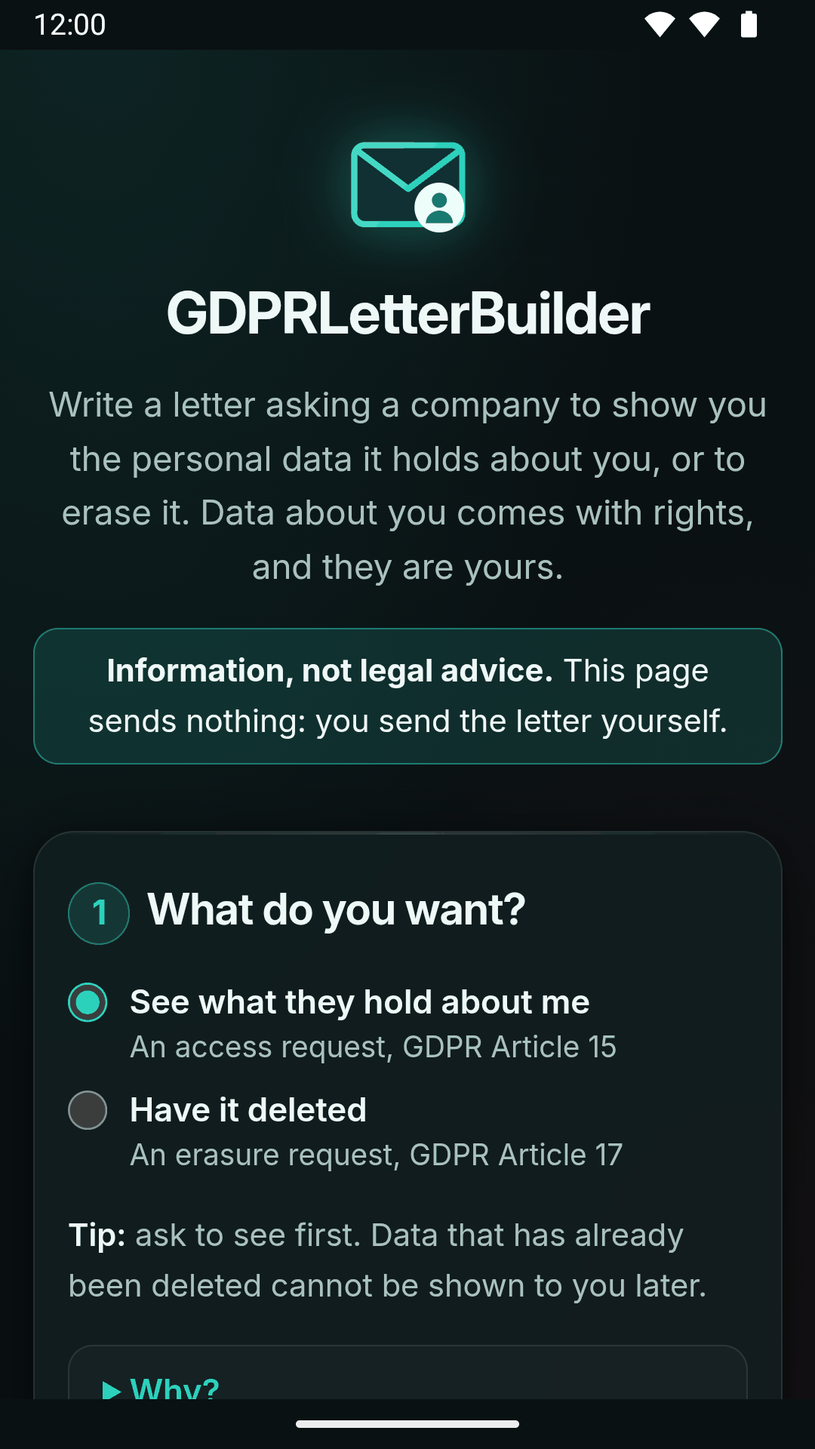
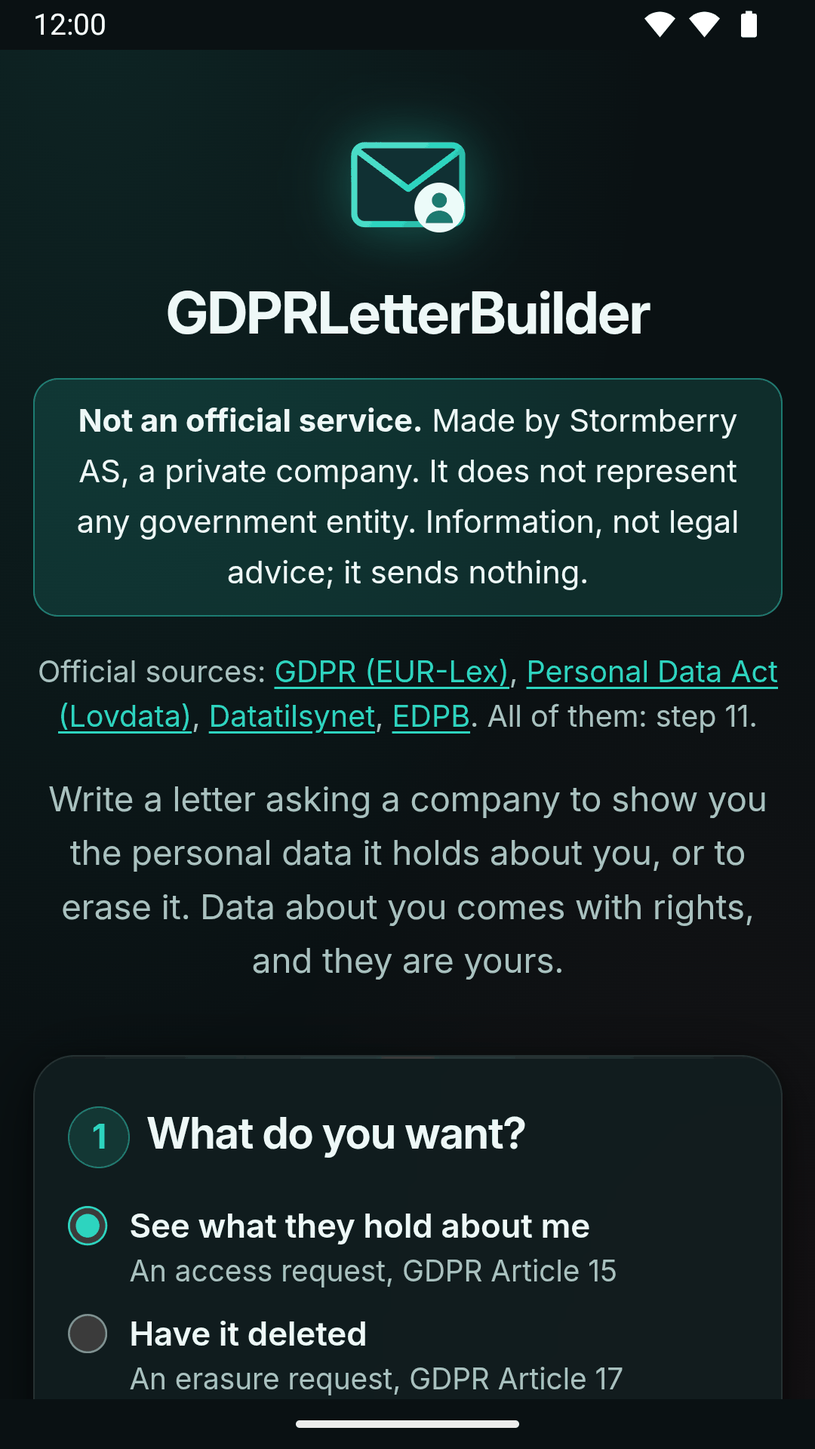
GDPRLetterBuilder 0.0.3: not an official service, with the official sources on the main screen
The main screen and the store texts now say at once that this is not an
official service, and link the official sources. Google Play asked for
both in its review of 1001 (Misleading Claims policy, 2 November 2026).

- Under the title, a box: "Not an official service. Made by Stormberry
  AS, a private company. It does not represent any government entity.
  Information, not legal advice; it sends nothing." It replaces the
  shorter note under the introduction.
- Under the box, a row links four official sources: the GDPR on
  EUR-Lex, the Personal Data Act in English on Lovdata, Datatilsynet and
  the EDPB guidelines on the right of access (.hero-sources in
  style.css). The introduction follows them. Box and row end above the
  fold at 320 x 568, 360 x 640 and 360 x 640 at 130 % text.
- Step 11 adds the three links it did not have and ends with the same
  statement: a private company that does not represent any government
  entity or public authority.
- The sovereign store texts (fastlane and zapstore.yaml) are the Google
  Play 1003 texts, byte for byte: they start with the same statement and
  list the official sources. New short description:
  "Unofficial helper: write a GDPR access or erasure letter. Sends
  nothing." Store screenshot 01 shows the new top of the screen.
- changelogs/3.txt is the release note (also the Play 1003 note);
  CHANGELOG.md and the README say what changed.
- versionName 0.0.3, versionCode 3. The Google Play edition is 1003.
[…]

diff --git a/index.html b/index.html
@@ -50,7 +50,7 @@
 
   <!-- Local Fonts: Inter -->
   <link rel="stylesheet" href="fonts/inter/inter.css?v=868d674e" />
-  <link rel="stylesheet" href="style.css?v=09618252" />
+  <link rel="stylesheet" href="style.css?v=c27f956e" />
   <!-- The first-run notice (dismissible tier): gate.css is generated by build-gates.py at the
        root of the GitHub folder; gate.js is compiled from the TypeScript that build-gates.py
        writes. Do not edit them here. Closing it
@@ -67,8 +67,9 @@
     <section class="hero" aria-labelledby="app-title">
       <img src="favicon.svg" alt="" class="hero-icon" width="64" height="64" />
       <h1 class="hero-title" id="app-title"><span aria-hidden="true">GDPR<wbr>Letter<wbr>Builder</span><span class="visually-hidden">GDPR Letter Builder</span></h1>
+      <p class="hero-note"><strong>Not an official service.</strong> Made by Stormberry AS, a private company. It does not represent any government entity. Information, not legal advice; it sends nothing.</p>
+      <p class="hero-sources">Official sources: <a href="https://eur-lex.europa.eu/legal-content/EN/TXT/?uri=CELEX:32016R0679" target="_blank" rel="noopener noreferrer">GDPR (EUR-Lex)</a>, <a href="https://lovdata.no/dokument/NLE/lov/2018-06-15-38" target="_blank" rel="noopener noreferrer">Personal Data Act (Lovdata)</a>, <a href="https://www.datatilsynet.no/en/" target="_blank" rel="noopener noreferrer">Datatilsynet</a>, <a href="https://www.edpb.europa.eu/our-work-tools/our-documents/guidelines/guidelines-012022-data-subject-rights-right-access_en" target="_blank" rel="noopener noreferrer">EDPB</a>. All of them: step 11.</p>
       <p class="hero-lede">Write a letter asking a company to show you the personal data it holds about you, or to erase it. Data about you comes with rights, and they are yours.</p>
-      <p class="hero-note"><strong>Information, not legal advice.</strong> This page sends nothing: you send the letter yourself.</p>
     </section>
 
     <!-- Step 1 -->
@@ -649,16 +650,16 @@
       <p>The letters and the notes on this page were checked against these sources on <strong>12 October 2026</strong>. Law and guidance change, and this page is not kept in step with them. For anything important, check the current position with Datatilsynet or a lawyer.</p>
       <ul class="source-list">
         <li><a href="https://eur-lex.europa.eu/legal-content/EN/TXT/?uri=CELEX:32016R0679" target="_blank" rel="noopener noreferrer">Regulation (EU) 2016/679, the General Data Protection Regulation (GDPR), on EUR-Lex</a></li>
-        <li><a href="https://lovdata.no/dokument/NL/lov/2018-06-15-38" target="_blank" rel="noopener noreferrer">The GDPR in Norwegian (personvernforordningen) and the Norwegian Personal Data Act (personopplysningsloven), on Lovdata</a></li>
-        <li><a href="https://www.edpb.europa.eu/system/files/documents/2023-04/edpb_guidelines_202201_data_subject_rights_access_v2_en.pdf" target="_blank" rel="noopener noreferrer">EDPB Guidelines 01/2022 on the right of access, version 2.1</a></li>
+        <li><a href="https://lovdata.no/dokument/NL/lov/2018-06-15-38" target="_blank" rel="noopener noreferrer">The GDPR in Norwegian (personvernforordningen) and the Norwegian Personal Data Act (personopplysningsloven), on Lovdata</a>, and <a href="https://lovdata.no/dokument/NLE/lov/2018-06-15-38" target="_blank" rel="noopener noreferrer">the Personal Data Act in English</a> (Lovdata's translation; the Norwegian text is the law)</li>
+        <li><a href="https://www.edpb.europa.eu/system/files/documents/2023-04/edpb_guidelines_202201_data_subject_rights_access_v2_en.pdf" target="_blank" rel="noopener noreferrer">EDPB Guidelines 01/2022 on the right of access, version 2.1</a>, and <a href="https://www.edpb.europa.eu/our-work-tools/our-documents/guidelines/guidelines-012022-data-subject-rights-right-access_en" target="_blank" rel="noopener noreferrer">their page on the EDPB's website</a></li>
         <li><a href="https://www.edpb.europa.eu/system/files/2026-02/edpb_cef-report_2025_right-to-erasure_en.pdf" target="_blank" rel="noopener noreferrer">EDPB coordinated enforcement report 2025 on the right to erasure</a></li>
         <li>Court of Justice of the European Union: <a href="https://curia.europa.eu/juris/liste.jsf?num=C-154/21" target="_blank" rel="noopener noreferrer">C-154/21</a>, <a href="https://curia.europa.eu/juris/liste.jsf?num=C-487/21" target="_blank" rel="noopener noreferrer">C-487/21</a>, <a href="https://curia.europa.eu/juris/liste.jsf?num=C-579/21" target="_blank" rel="noopener noreferrer">C-579/21</a>, <a href="https://curia.europa.eu/juris/liste.jsf?num=C-307/22" target="_blank" rel="noopener noreferrer">C-307/22</a>, <a href="https://curia.europa.eu/juris/liste.jsf?num=C-300/21" target="_blank" rel="noopener noreferrer">C-300/21</a>, <a href="https://curia.europa.eu/juris/liste.jsf?num=C-203/22" target="_blank" rel="noopener noreferrer">C-203/22</a>, <a href="https://curia.europa.eu/juris/liste.jsf?num=C-526/24" target="_blank" rel="noopener noreferrer">C-526/24</a></li>
         <li><a href="https://eur-lex.europa.eu/legal-content/EN/TXT/?uri=CELEX:31971R1182" target="_blank" rel="noopener noreferrer">Regulation (EEC, Euratom) No 1182/71 on periods, dates and time limits</a>, applied to the deadline by the EDPB</li>
         <li><a href="https://lovdata.no/dokument/NL/lov/1995-02-24-12" target="_blank" rel="noopener noreferrer">The Public Holidays Act (helligdagsloven)</a> and <a href="https://lovdata.no/dokument/NL/lov/1947-04-26-1" target="_blank" rel="noopener noreferrer">the Act on 1 and 17 May as public holidays (lov om 1 og 17 mai som høgtidsdager)</a></li>
-        <li>Datatilsynet: <a href="https://www.datatilsynet.no/rettigheter-og-plikter/den-registrertes-rettigheter/rett-til-innsyn/" target="_blank" rel="noopener noreferrer">right of access</a>, <a href="https://www.datatilsynet.no/rettigheter-og-plikter/den-registrertes-rettigheter/rett-til-sletting/" target="_blank" rel="noopener noreferrer">right to erasure</a>, <a href="https://www.datatilsynet.no/om-datatilsynet/kontakt-oss/klage-til-datatilsynet/" target="_blank" rel="noopener noreferrer">complaints</a>, <a href="https://www.datatilsynet.no/om-datatilsynet/kontakt-oss/" target="_blank" rel="noopener noreferrer">contact</a></li>
+        <li>Datatilsynet: <a href="https://www.datatilsynet.no/en/" target="_blank" rel="noopener noreferrer">its website in English</a>, and in Norwegian: <a href="https://www.datatilsynet.no/rettigheter-og-plikter/den-registrertes-rettigheter/rett-til-innsyn/" target="_blank" rel="noopener noreferrer">right of access</a>, <a href="https://www.datatilsynet.no/rettigheter-og-plikter/den-registrertes-rettigheter/rett-til-sletting/" target="_blank" rel="noopener noreferrer">right to erasure</a>, <a href="https://www.datatilsynet.no/om-datatilsynet/kontakt-oss/klage-til-datatilsynet/" target="_blank" rel="noopener noreferrer">complaints</a>, <a href="https://www.datatilsynet.no/om-datatilsynet/kontakt-oss/" target="_blank" rel="noopener noreferrer">contact</a></li>
         <li><a href="https://personvernnemnda.no/klage-saksgang/" target="_blank" rel="noopener noreferrer">Personvernnemnda</a> and <a href="https://www.posten.no/sende/i-norge/brev/rekommandert-brev" target="_blank" rel="noopener noreferrer">Posten</a></li>
       </ul>
-      <p class="hint">Stormberry AS is not connected with Datatilsynet, the EDPB or the EU, and they have not reviewed this page. The letters are our own wording and use the words of the law where precision matters; quotations elsewhere on this page are marked.</p>
+      <p class="hint">Stormberry AS is a private company and does not represent any government entity or public authority. It is not connected with Datatilsynet, the EDPB or the European Union, and none of them has reviewed or approved this page. The letters are our own wording and use the words of the law where precision matters; quotations elsewhere on this page are marked.</p>
     </section>
 
     <div class="visually-hidden" id="announcer" role="status" aria-live="polite"></div>

diff --git a/tests/store.test.ts b/tests/store.test.ts
@@ -94,10 +94,39 @@ test('the store texts: Zapstore\'s and Fastlane\'s lengths, the copy rules, and 
     assert.deepEqual(copyProblems(t), [], name);
     assert.ok(!/\bvibe/i.test(t), name);
   }
-  // The framing every Labs app carries, and the app's own.
-  assert.match(full, /This is a functioning prototype from Stormberry AS, MIT licensed/);
-  assert.match(full, /Information, not legal advice\./);
+  // The framing every Labs app carries, and the app's own. Since 0.0.3 the last two lines are the Play
+  // edition's, word for word: the licence is named with the code's address, not in the prototype line.
+  assert.match(full, /\n\nThe privacy page and the full disclaimer open from the app's footer\. The code is open source \(MIT\): https:\/\/github\.com\/StormberryAS\/GDPRLetterBuilder\n\nThis is a functioning prototype from Stormberry AS, so expect gaps and changes\.\n$/);
+  assert.match(full, /It gives information, not legal advice\./);
   assert.match(note, /Information, not legal advice\./);
+});
+
+// Google Play's Misleading Claims review of 1001 (2 November 2026): the description must say near the top
+// that the app is not official and does not represent a government entity, and link the official sources.
+// Marcos approved the texts on 4 November 2026 (~/work/gdpr-play-policy-20261104/DESIGN.md).
+const NOT_OFFICIAL = 'Not an official service. GDPRLetterBuilder is a free app made by Stormberry AS, a private company in Norway. It does not represent any government entity or public authority. It is not connected with the Norwegian Data Protection Authority (Datatilsynet), the European Data Protection Board (EDPB) or the European Union, and none of them has reviewed or approved it. It gives information, not legal advice.';
+const OFFICIAL_SOURCES = [
+  'https://eur-lex.europa.eu/legal-content/EN/TXT/?uri=CELEX:32016R0679',
+  'https://lovdata.no/dokument/NLE/lov/2018-06-15-38',
+  'https://www.datatilsynet.no/en/',
+  'https://www.datatilsynet.no/om-datatilsynet/kontakt-oss/klage-til-datatilsynet/',
+  'https://www.edpb.europa.eu/our-work-tools/our-documents/guidelines/guidelines-012022-data-subject-rights-right-access_en',
+];
+
+test('the store texts say first that the app is not official, and link the official sources, each one also in step 11 (0.0.3)', () => {
+  const full = text(`${FL}/full_description.txt`);
+  assert.ok(full.startsWith(NOT_OFFICIAL + '\n\n'), 'the first paragraph');
+  assert.equal(text(`${FL}/short_description.txt`), 'Unofficial helper: write a GDPR access or erasure letter. Sends nothing.');
+  const block = full.match(/\n\nOfficial sources\. The letters and notes rely on these\. For the authoritative text, read them there:\n((?:- [^\n]+: https:\/\/\S+\n){5})The app lists every source it uses, with the date we checked it, in its last step\.\n\n/);
+  assert.ok(block, 'the Official sources block');
+  assert.deepEqual([...block[1]!.matchAll(/: (https:\/\/\S+)\n/g)].map((m) => m[1]), OFFICIAL_SOURCES);
+  // Every link of the store text is a link of step 11, which lists them all, and opens safely there.
+  const html = read('index.html');
+  const s11 = html.slice(html.indexOf('<!-- Step 11 -->'), html.indexOf('<div class="visually-hidden" id="announcer"'));
+  for (const u of OFFICIAL_SOURCES) assert.ok(s11.includes(`<a href="${u}" target="_blank" rel="noopener noreferrer">`), u);
+  // The list item it replaced is gone; the deadline item uses the short name the first paragraph defines.
+  assert.ok(!full.includes('Every source the letters rely on'));
+  assert.ok(full.includes('counted the way the EDPB describes'));
 });
 
 test('the texts are approved (30 October 2026): no DRAFT line anywhere, and the release workflow still refuses to build with one', () => {
@@ -113,7 +142,7 @@ test('the texts are approved (30 October 2026): no DRAFT line anywhere, and the 
 
 test('the store texts claim no permission only while the APK asks for none', () => {
   const full = text(`${FL}/full_description.txt`);
-  const claims = /asks for no Android permission at all/.test(full) && /The only line you should see is the package name\./.test(full);
+  const claims = /asks for no Android permission at all/.test(full) && /Android's App info for GDPRLetterBuilder lists none\./.test(full);
   assert.ok(claims);
   assert.equal(read('android/expected-permissions.txt').trim(), 'package: no.stormberry.gdprletterbuilder');
   const manifest = read('android/app/src/main/AndroidManifest.xml').replace(/<!--[\s\S]*?-->/g, '');
@@ -231,11 +260,11 @@ test('the Play switch: -PplayBuild=true builds no.stormberry.gdprletterbuilder.p
   assert.ok(versionCode() < 1000, 'the sovereign versionCode stays below the Play offset');
   assert.match(gradle, /^val PLAY_VERSION_CODE_OFFSET = 1000$/m);
   assert.match(gradle, /applicationId = if \(playBuild\) "no\.stormberry\.gdprletterbuilder\.play" else "no\.stormberry\.gdprletterbuilder"/);
-  assert.match(gradle, /versionCode = 2\n {8}versionName = "0\.0\.2"\n {8}if \(playBuild\) \{\n {12}versionCode = PLAY_VERSION_CODE_OFFSET \+ versionCode!!\n {8}\}/);
+  assert.match(gradle, /versionCode = 3\n {8}versionName = "0\.0\.3"\n {8}if \(playBuild\) \{\n {12}versionCode = PLAY_VERSION_CODE_OFFSET \+ versionCode!!\n {8}\}/);
   // Strict parsing: a bare -PplayBuild means Play, anything unknown stops the build.
   assert.match(gradle, /"", "true", "1", "yes" -> true\n\s*"false", "0", "no" -> false\n\s*else -> error\(/);
   assert.match(gradle, /if \(playBuild\) \{\n {4}base \{ archivesName = "gdprletterbuilder-play" \}\n\}/);
-  assert.match(read('README.md'), /\| `android-v0\.0\.1` \| 1 \| 0\.0\.1 \| 1001 \|\n\| `android-v0\.0\.2` \| 2 \| 0\.0\.2 \| 1002 \|\n/);
+  assert.match(read('README.md'), /\| `android-v0\.0\.1` \| 1 \| 0\.0\.1 \| 1001 \|\n\| `android-v0\.0\.2` \| 2 \| 0\.0\.2 \| 1002 \|\n\| `android-v0\.0\.3` \| 3 \| 0\.0\.3 \| 1003 \|\n/);
   // The Play edition has the same features: nothing in the app's code or manifest depends on the switch.
   for (const f of walkFiles('android/app/src/main')) assert.ok(!/playBuild|\.play\b/.test(read(f)), `${f} depends on the Play switch`);
 });

diff --git a/tests/ui-smoke.ts b/tests/ui-smoke.ts
@@ -9,6 +9,9 @@
 // checks (spec sections 11 and 13):
 //   * the first-run notice at 1280, 390 and 320 pixels and at 200% text, word for word, closed by
 //     Escape, the backdrop and its button, its one flag, and not shown again after a reload;
+//   * the top of the main screen (0.0.3, the Google Play policy fix): the "Not an official service"
+//     box and the official sources row end above the fold at 320 x 568, 360 x 640 and 360 x 640 at
+//     130% text, in dark and light, in the order title, box, sources, introduction;
 //   * one column with no sideways scrolling at 1280, 390 and 320 pixels and at 200% text;
 //   * at 320, 360 and 393 pixels, every inline choice label on one line and no radio or checkbox
 //     label broken inside a word;
@@ -123,7 +126,7 @@ function contrast(sels: string[]) {
     return { sel, ratio: Math.round(r * 100) / 100, color: cs.color, bg: 'rgb(' + [bg.r, bg.g, bg.b].map(Math.round).join(',') + ')', size: cs.fontSize };
   });
 }
-const CONTRAST_SELECTORS = ['.hero-lede', '.hero-note', '.step-title', '.hint', '.field > label', 'legend', '.choice-sub', '.choice span', '.btn-primary', '.btn-secondary', 'textarea.letter',
+const CONTRAST_SELECTORS = ['.hero-lede', '.hero-note', '.hero-sources', '.hero-sources a', '.step-title', '.hint', '.field > label', 'legend', '.choice-sub', '.choice span', '.btn-primary', '.btn-secondary', 'textarea.letter',
   'details > summary', '.sources', '.missing', '.deadline p', '.deadline-head', '.footer-bottom p', '.footer-offline', '.footer-privacy', '.footer-law', '.footer-ai', '.footer-tagline', '.switcher-title', '.tips li', 'input#company'];
 
 try {
@@ -163,6 +166,34 @@ try {
       await p.load();
       g = await p.run(gateState);
       check('notice: not shown again after a reload', !g.open, g.open);
+    }
+  }
+
+  // The top of the main screen (0.0.3): Google Play asked for an easy-to-see statement in the app that
+  // it does not represent a government entity, and for the official sources. Both end above the fold,
+  // with the first-run notice closed, on the smallest phone screens and at 130% text (Android's large
+  // font), in dark and light. At 200% text nothing can fit; the box still comes first there.
+  for (const [w, h, zoom] of [[320, 568, 1], [360, 640, 1], [360, 640, 1.3], [320, 640, 2]] as Array<[number, number, number]>) {
+    for (const scheme of ['dark', 'light']) {
+      const p = await open({ width: w, height: h });
+      await p.s('Emulation.setEmulatedMedia', { features: [{ name: 'prefers-color-scheme', value: scheme }] });
+      if (zoom !== 1) await p.run((z: number) => { document.documentElement.style.fontSize = (z * 100) + '%'; }, zoom);
+      await sleep(300);
+      const r = await p.run(() => {
+        scrollTo(0, 0);
+        const box = (s: string) => { const e = document.querySelector(s); if (!e || !e.getClientRects().length) return null; const b = e.getBoundingClientRect(); return { top: Math.round(b.top), bottom: Math.round(b.bottom) }; };
+        const shown = (s: string) => { const e = document.querySelector(s); if (!e) return false; const cs = getComputedStyle(e); return cs.visibility === 'visible' && cs.display !== 'none' && Number(cs.opacity) > 0.9; };
+        return { title: box('.hero-title'), note: box('.hero-note'), sources: box('.hero-sources'), lede: box('.hero-lede'), vh: innerHeight, scrollY, gate: !!document.querySelector('.sb-gate-overlay'),
+          shown: shown('.hero-note') && shown('.hero-sources'), noteText: document.querySelector('.hero-note')?.textContent, links: document.querySelectorAll('.hero-sources a[target="_blank"][rel="noopener noreferrer"]').length };
+      });
+      const tag = `top of the main screen ${w} x ${h}${zoom !== 1 ? ` at ${zoom * 100}% text` : ''}, ${scheme}`;
+      const ordered = !!(r.title && r.note && r.sources && r.lede) && r.title.bottom <= r.note.top && r.note.bottom <= r.sources.top && r.sources.bottom <= r.lede.top;
+      check(`${tag}: title, the "Not an official service" box, the four official sources, then the introduction`, ordered && r.shown && !r.gate && r.links === 4
+        && /^Not an official service\. Made by Stormberry AS, a private company\. It does not represent any government entity\./.test(r.noteText || ''), r);
+      if (zoom <= 1.3) check(`${tag}: the box and the sources row end above the fold, without a scroll`, r.scrollY === 0 && !!r.note && !!r.sources && r.note.bottom <= r.vh && r.sources.bottom <= r.vh, r);
+      else check(`${tag}: the box starts above the fold`, r.scrollY === 0 && !!r.note && r.note.top < r.vh, r);
+      await p.viewShot(join(SHOTS, `top-${w}x${h}${zoom !== 1 ? `-${zoom * 100}pct` : ''}-${scheme}.png`));
+      await p.close();
     }
   }
 

diff --git a/tests/static.test.ts b/tests/static.test.ts
@@ -228,7 +228,7 @@ const MANIFEST = [
   '.github/workflows/android-release.yml', 'android/tools/apk-without-signature.ts', 'android/tools/build-store-icon.py', 'tests/store.test.ts',
   'zapstore.yaml', 'fastlane/metadata/android/en-US/title.txt', 'fastlane/metadata/android/en-US/short_description.txt',
   'fastlane/metadata/android/en-US/full_description.txt', 'fastlane/metadata/android/en-US/changelogs/1.txt',
-  'fastlane/metadata/android/en-US/changelogs/2.txt',
+  'fastlane/metadata/android/en-US/changelogs/2.txt', 'fastlane/metadata/android/en-US/changelogs/3.txt',
   'fastlane/metadata/android/en-US/images/icon.png', 'fastlane/metadata/android/en-US/images/featureGraphic.png',
   'fastlane/metadata/android/en-US/images/phoneScreenshots/01-start.png', 'fastlane/metadata/android/en-US/images/phoneScreenshots/02-your-letter.png',
   'fastlane/metadata/android/en-US/images/phoneScreenshots/03-deadline.png', 'fastlane/metadata/android/en-US/images/phoneScreenshots/04-follow-up.png',
@@ -266,6 +266,39 @@ test('touch targets and the title at large text (stage 3 review E3-8, E3-9)', ()
   assert.match(css, /\.choices\.inline \.choice > span \{ flex: 1 1 0; max-width: none; \}/);
   // The title breaks between its three words, never inside one while they fit.
   assert.match(read('index.html'), /<h1 class="hero-title" id="app-title"><span aria-hidden="true">GDPR<wbr>Letter<wbr>Builder<\/span><span class="visually-hidden">GDPR Letter Builder<\/span><\/h1>/);
+});
+
+// The Google Play policy fix (0.0.3, approved by Marcos on 4 November 2026, after Google's Misleading
+// Claims review of 1001 on 2 November 2026): under the title, a box says the app is not an official
+// service, and a row links four official sources, each also in step 11; the introduction follows them.
+const HERO_SOURCES: Array<[string, string]> = [
+  ['https://eur-lex.europa.eu/legal-content/EN/TXT/?uri=CELEX:32016R0679', 'GDPR (EUR-Lex)'],
+  ['https://lovdata.no/dokument/NLE/lov/2018-06-15-38', 'Personal Data Act (Lovdata)'],
+  ['https://www.datatilsynet.no/en/', 'Datatilsynet'],
+  ['https://www.edpb.europa.eu/our-work-tools/our-documents/guidelines/guidelines-012022-data-subject-rights-right-access_en', 'EDPB'],
+];
+
+test('the main screen says first that this is not an official service, then links the official sources (0.0.3)', () => {
+  const html = read('index.html');
+  const at = html.indexOf('<section class="hero" aria-labelledby="app-title">');
+  const hero = html.slice(at, html.indexOf('</section>', at));
+  const links = HERO_SOURCES.map(([u, t]) => `<a href="${u}" target="_blank" rel="noopener noreferrer">${t}</a>`);
+  const want = '<h1 class="hero-title" id="app-title"><span aria-hidden="true">GDPR<wbr>Letter<wbr>Builder</span><span class="visually-hidden">GDPR Letter Builder</span></h1>\n' +
+    '      <p class="hero-note"><strong>Not an official service.</strong> Made by Stormberry AS, a private company. It does not represent any government entity. Information, not legal advice; it sends nothing.</p>\n' +
+    `      <p class="hero-sources">Official sources: ${links.join(', ')}. All of them: step 11.</p>\n` +
+    '      <p class="hero-lede">';
+  assert.ok(hero.includes(want), 'the title, the box, the sources row, then the introduction');
+  // The hero holds these four links and no other; the page has one box.
+  assert.equal([...hero.matchAll(/<a\b/g)].length, 4);
+  assert.equal([...html.matchAll(/class="hero-note"/g)].length, 1);
+  assert.equal([...html.matchAll(/class="hero-sources"/g)].length, 1);
+  // Each one is also in step 11, the full list, with the same target and rel.
+  const s11 = html.slice(html.indexOf('<!-- Step 11 -->'), html.indexOf('<div class="visually-hidden" id="announcer"'));
+  for (const [u] of HERO_SOURCES) assert.ok(s11.includes(`<a href="${u}" target="_blank" rel="noopener noreferrer">`), `step 11 lacks ${u}`);
+  // Step 11 ends with the same statement.
+  assert.ok(s11.includes('<p class="hint">Stormberry AS is a private company and does not represent any government entity or public authority. It is not connected with Datatilsynet, the EDPB or the European Union, and none of them has reviewed or approved this page.'));
+  // The row's style: the lede's width, smaller and quieter than the box.
+  assert.match(read('style.css'), /\n\.hero-sources \{\n {2}max-width: 36rem;\n {2}color: var\(--text-secondary\);\n {2}font-size: 0\.9rem;\n {2}line-height: 1\.5;\n\}\n/);
 });
 
 test('the manifest of files: the repository holds exactly the expected files', () => {

diff --git a/tests/app-mode-smoke.ts b/tests/app-mode-smoke.ts
@@ -42,6 +42,9 @@
 //     1.5 and 2.0, at 320 and 412 px: the notice, the letter page with a detail and a timeline row,
 //     the privacy page and the disclaimer; the text grows, nothing reaches past the screen, every
 //     date shows whole and the rows hold their fields and buttons (17 October 2026);
+//   * the top of the main screen in the app (0.0.3, the Google Play policy fix): the "Not an
+//     official service" box and the official sources row end above the fold at 320 x 568, 360 x 640
+//     and 360 x 640 with the app's text at 1.3, in dark and light;
 //   * the same files without the bridge (a WebView too old for it) and the website itself show
 //     none of the app's parts.
 // Nothing leaves the machine: the browser can reach only this server.
@@ -646,6 +649,33 @@ try {
           if (width === 320 && scale === 2) await s.viewShot(join(SHOTS, `large-text-${side}-320-2.0.png`));
           await s.close();
         }
+      }
+    }
+
+    // The top of the main screen in the app (0.0.3): Google Play asked for an easy-to-see statement
+    // in the app that it does not represent a government entity, and for the official sources. Both
+    // end above the fold with the notice closed, on the smallest phone screens and with the app's
+    // text at 1.3 (textZoom, as above), in dark and light.
+    for (const [w, h, scale] of [[320, 568, 1], [360, 640, 1], [360, 640, 1.3]] as Array<[number, number, number]>) {
+      for (const scheme of ['dark', 'light']) {
+        const p = await open('app', { width: w, height: h });
+        await p.s('Emulation.setEmulatedMedia', { features: [{ name: 'prefers-color-scheme', value: scheme }] });
+        if (scale !== 1) await p.run(textZoom, scale);
+        await sleep(300);
+        const r = await p.run(() => {
+          scrollTo(0, 0);
+          const box = (s: string) => { const e = document.querySelector(s); if (!e || !e.getClientRects().length) return null; const b = e.getBoundingClientRect(); return { top: Math.round(b.top), bottom: Math.round(b.bottom) }; };
+          return { title: box('.hero-title'), note: box('.hero-note'), sources: box('.hero-sources'), lede: box('.hero-lede'), vh: innerHeight, scrollY, gate: !!document.querySelector('.sb-gate-overlay'),
+            bridge: !!document.querySelector('script[src="android-bridge.js"]'), body: parseFloat(getComputedStyle(document.body).fontSize),
+            noteText: document.querySelector('.hero-note')?.textContent, links: document.querySelectorAll('.hero-sources a[target="_blank"][rel="noopener noreferrer"]').length };
+        });
+        const tag = `top of the main screen in the app, ${w} x ${h}${scale !== 1 ? `, the app's text at ${scale}` : ''}, ${scheme}`;
+        const ordered = !!(r.title && r.note && r.sources && r.lede) && r.title.bottom <= r.note.top && r.note.bottom <= r.sources.top && r.sources.bottom <= r.lede.top;
+        check(`${tag}: title, the "Not an official service" box, the four official sources, then the introduction; both end above the fold`,
+          r.bridge && !r.gate && ordered && r.links === 4 && Math.abs(r.body - 16 * scale) < 0.1 && /^Not an official service\. Made by Stormberry AS, a private company\. It does not represent any government entity\./.test(r.noteText || '')
+          && r.scrollY === 0 && r.note!.bottom <= r.vh && r.sources!.bottom <= r.vh, r);
+        await p.viewShot(join(SHOTS, `app-top-${w}x${h}${scale !== 1 ? `-${scale}` : ''}-${scheme}.png`));
+        await p.close();
       }
     }
   }

diff --git a/tests/copy.test.ts b/tests/copy.test.ts
@@ -80,6 +80,9 @@ test('the lint catches what it should (so a pass means something)', () => {
   assert.equal(copyProblems('Done!').length, 1);
   assert.equal(copyProblems('the color and the center').length, 2);
   assert.equal(copyProblems('We guarantee a safe, official, legally binding letter').length >= 1, true);
+  // "official" only where it says the opposite (0.0.3): not an official service, unofficial, the official sources.
+  assert.deepEqual(copyProblems('Not an official service. An unofficial helper. Official sources: EUR-Lex. Read the official sources. It is not an official\nservice, see the official\nsources.'), []);
+  for (const claim of ['An official letter.', 'Officially reviewed.', 'The official GDPR service.', 'It is an official source.', 'Official service.', 'It is not an official letter.', 'Not an official form.']) assert.equal(copyProblems(claim).length, 1, claim);
   assert.equal(copyProblems('They are late and the company has broken the law. You are entitled to it.').length, 3);
   assert.deepEqual(copyProblems('It does not tell you whether a company has broken the law.'), []);
   assert.deepEqual(copyProblems('colour, organise, licence, the safeguards that apply, grey, centre'), []);
@@ -89,7 +92,9 @@ test('the lint catches what it should (so a pass means something)', () => {
 test('the page says "information, not legal advice" where the spec puts it, and "Save", never "Download"', () => {
   const html = read('index.html');
   const text = htmlText(html);
-  assert.ok(text.includes('Information, not legal advice. This page sends nothing: you send the letter yourself.'));
+  // Under the title since 0.0.3 (the Google Play policy fix): not an official service, then the official sources.
+  assert.ok(text.includes('Not an official service. Made by Stormberry AS, a private company. It does not represent any government entity. Information, not legal advice; it sends nothing.'));
+  assert.ok(text.includes('Stormberry AS is a private company and does not represent any government entity or public authority. It is not connected with Datatilsynet, the EDPB or the European Union, and none of them has reviewed or approved this page.'));
   assert.ok(text.includes('A standard letter. Read it, change anything that is not right, and send it yourself.'));
   assert.ok(text.includes('The letters are fixed texts checked against the sources listed below. Nothing is written by AI while you use this page.'));
   assert.ok(text.includes('Nothing you type is sent anywhere by this page. Disconnect and try it.'));

diff --git a/tests/release.test.ts b/tests/release.test.ts
@@ -271,13 +271,17 @@ test('og-image.png is 1200 by 630, and the page names it for link previews', () 
   assert.match(read('index.html'), /<meta property="og:image" content="https:\/\/gdpr\.stormberry\.as\/og-image\.png" \/>/);
 });
 
-test('README.md: information, not legal advice; the 0.0.2 status and the pinned certificate', () => {
+test('README.md: information, not legal advice; the 0.0.3 status and the pinned certificate', () => {
   const md = read('README.md');
   assert.ok(md.startsWith('# GDPRLetterBuilder\n\n**Information, not legal advice.**'));
-  // The status line and the CHANGELOG.md heading carry the same date (the signing day).
-  const status = md.match(/\*\*0\.0\.2, (\d{1,2} [A-Z][a-z]+ \d{4})\.\*\* The web app is at \[gdpr\.stormberry\.as\]\(https:\/\/gdpr\.stormberry\.as\)/);
+  // The status line, the CHANGELOG.md heading and the Gradle history line carry the same date (the signing day).
+  const status = md.match(/\*\*0\.0\.3, (\d{1,2} [A-Z][a-z]+ \d{4})\.\*\* The web app is at \[gdpr\.stormberry\.as\]\(https:\/\/gdpr\.stormberry\.as\)/);
   assert.ok(status, 'the README status line');
-  assert.match(read('CHANGELOG.md'), new RegExp(`^## 0\\.0\\.2 \\(versionCode 2\\), ${status[1]}$`, 'm'));
+  assert.match(read('CHANGELOG.md'), new RegExp(`^## 0\\.0\\.3 \\(versionCode 3\\), ${status[1]}$`, 'm'));
+  assert.match(read('android/app/build.gradle.kts'), new RegExp(`^ {8}// 0\\.0\\.3 \\(code 3, Play 1003\\), ${status[1]}: `, 'm'));
+  // Not an official service (0.0.3), at the top and in the Disclaimer section.
+  assert.ok(md.includes('\n\nNot an official service. Stormberry AS is a private company, and GDPRLetterBuilder does not represent any government entity or public authority'));
+  assert.ok(md.includes('It is not an official service. Stormberry AS is a private company and does not represent any government entity or public authority.'));
[2 lines of base64/hex data omitted]
   assert.ok(!/not created yet/i.test(md));

diff --git a/tests/legal-pages.ts b/tests/legal-pages.ts
@@ -100,7 +100,10 @@ export function htmlText(html: string): string {
 //   * no em or en dashes, no double hyphen, no exclamation mark;
 //   * British spelling;
 //   * no claims the app cannot back: guarantee, legally binding, lawyer-approved, official, approved
-//     by Datatilsynet, safe;
+//     by Datatilsynet, safe. Two uses of "official" say the opposite and are allowed (0.0.3, the
+//     Google Play policy fix): "not an official service" (and "unofficial"), and "official
+//     sources", the government sources the page links. "Not an official" before any word but
+//     "service" ("not an official letter") is still flagged;
 //   * no verdict the app cannot make: they are late, broke the law, has broken the law (except where
 //     the text says the app does NOT say so: "whether a company has broken the law"), you are
 //     entitled to.
@@ -116,7 +119,7 @@ export function copyProblems(text: string): string[] {
   scan('dash', /\u2014|\u2013|--/g);
   scan('exclamation', /!/g);
   scan('spelling', /\b(color\w*|organiz\w*|recogniz\w*|realiz\w*|minimiz\w*|authoriz\w*|prioritiz\w*|customiz\w*|analyz\w*|apologiz\w*|emphasiz\w*|standardiz\w*|specializ\w*|summariz\w*|utiliz\w*|maximiz\w*|optimiz\w*|gray|center(ed|s)?|favorite\w*|behavior\w*|catalog|licens(e|ed) (?:text|file))\b/gi);
-  scan('claim', /\b(guarantee[ds]?|legally binding|lawyer-approved|official(ly)?|approved by Datatilsynet|safe(ly)?)\b/gi);
+  scan('claim', /\b(guarantee[ds]?|legally binding|lawyer-approved|officially|(?<!\bnot\s+an\s+)official(?!\s+sources\b)|(?<=\bnot\s+an\s+)official(?!\s+service\b)|approved by Datatilsynet|safe(ly)?)\b/gi);
   scan('verdict', /(?<!whether a company )\bhas broken the law|\bbroke the law|\bthey are late|\byou are entitled to/gi);
   return out;
 }

diff --git a/tests/citations.test.ts b/tests/citations.test.ts
@@ -53,10 +53,25 @@ test('the disclaimer, the privacy page and the README cite only what is on the l
   assert.deepEqual(unknownCitations(read('README.md')), []);
 });
 
+// The official sources under the title (0.0.3, the Google Play policy fix) link three entry points
+// that no letter or guide cites: the Personal Data Act in Lovdata's English translation, Datatilsynet's
+// website in English and the EDPB guidelines' own page. They are not citations, so they are not on the
+// list of src/citations.js (the app's code does not change in 0.0.3); they are allowed here, each one
+// in the hero and in step 11 and nowhere else.
+const ENTRY_POINTS = [
+  'https://lovdata.no/dokument/NLE/lov/2018-06-15-38',
+  'https://www.datatilsynet.no/en/',
+  'https://www.edpb.europa.eu/our-work-tools/our-documents/guidelines/guidelines-012022-data-subject-rights-right-access_en',
+];
+
 test('every source link on the page goes to an address on the list', () => {
   const html = read('index.html');
   const main = html.slice(html.indexOf('<!-- APP-UI:START -->'), html.indexOf('<!-- APP-UI:END -->'));
-  const known = new Set(Object.values(SOURCES).map((s) => s.url));
+  const known = new Set([...Object.values(SOURCES).map((s) => s.url), ...ENTRY_POINTS]);
+  for (const u of ENTRY_POINTS) {
+    assert.ok(!Object.values(SOURCES).some((s) => s.url === u), `${u} is on the list now: take it out of ENTRY_POINTS`);
+    assert.equal([...main.matchAll(new RegExp(`href="${u.replace(/[.?/]/g, '\\$&')}"`, 'g'))].length, 2, `${u}: once in the hero, once in step 11`);
+  }
   const hrefs = [...main.matchAll(/<a [^>]*href="(https:[^"]+)"/g)].map((m) => m[1]);
   assert.ok(hrefs.length > 40);
   for (const h of hrefs) assert.ok(known.has(h!), h);

diff --git a/android/app/src/test/kotlin/no/stormberry/gdprletterbuilder/NavigationPolicyTest.kt b/android/app/src/test/kotlin/no/stormberry/gdprletterbuilder/NavigationPolicyTest.kt
@@ -145,11 +145,17 @@ class NavigationPolicyTest {
         assertTrue(NavigationPolicy.APP_SCHEMES == setOf("mailto", "nostr"))
     }
 
-    /** The source links of the page (they open in a new tab on the website) go to the browser. */
+    /**
+     * The source links of the page (they open in a new tab on the website) go to the browser, the
+     * four official sources under the title (0.0.3) among them.
+     */
     @Test fun theSourceLinksGoToTheBrowser() {
         listOf(
             "https://eur-lex.europa.eu/legal-content/EN/TXT/?uri=CELEX:32016R0679",
             "https://lovdata.no/dokument/NL/lov/2018-06-15-38",
+            "https://lovdata.no/dokument/NLE/lov/2018-06-15-38",
+            "https://www.datatilsynet.no/en/",
+            "https://www.edpb.europa.eu/our-work-tools/our-documents/guidelines/guidelines-012022-data-subject-rights-right-access_en",
             "https://curia.europa.eu/juris/liste.jsf?num=C-154/21",
             "https://www.edpb.europa.eu/system/files/documents/2023-04/edpb_guidelines_202201_data_subject_rights_access_v2_en.pdf",
             "https://www.datatilsynet.no/om-datatilsynet/kontakt-oss/klage-til-datatilsynet/",

diff --git a/tests/android-app.test.ts b/tests/android-app.test.ts
@@ -146,7 +146,7 @@ test('names, versions and the activity: GDPRLetterBuilder everywhere, as CheckLi
   assert.match(gradle, /namespace = "no\.stormberry\.gdprletterbuilder"/);
   // The sovereign package, or the Google Play edition's with -PplayBuild=true (tests/store.test.ts pins the switch).
   assert.match(gradle, /applicationId = if \(playBuild\) "no\.stormberry\.gdprletterbuilder\.play" else "no\.stormberry\.gdprletterbuilder"\n/);
-  assert.match(gradle, /versionCode = 2\s+versionName = "0\.0\.2"/);
+  assert.match(gradle, /versionCode = 3\s+versionName = "0\.0\.3"/);
   assert.match(gradle, /minSdk = 24\s+targetSdk = 36/);
   assert.match(gradle, /applicationIdSuffix = "\.debug"/);
   assert.match(read('android/gradle/libs.versions.toml'), /agp = "9\.3\.1"/);

diff --git a/style.css b/style.css
@@ -202,6 +202,13 @@ button, input, select, textarea { font: inherit; color: inherit; }
   font-size: 0.95rem;
 }
 
+.hero-sources {
+  max-width: 36rem;
+  color: var(--text-secondary);
+  font-size: 0.9rem;
+  line-height: 1.5;
+}
+
 .noscript {
   padding: var(--sp-md);
   border: 1px solid var(--warn-border);
